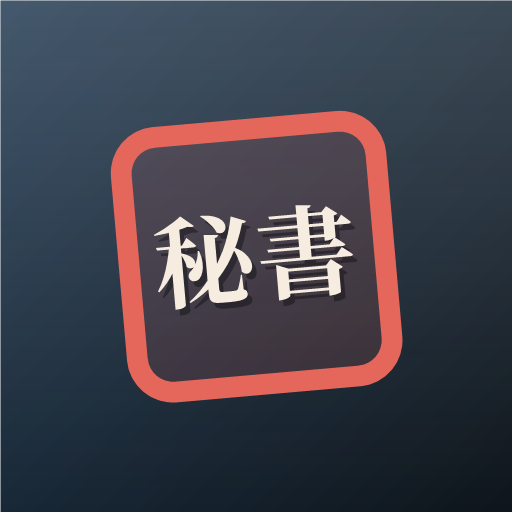
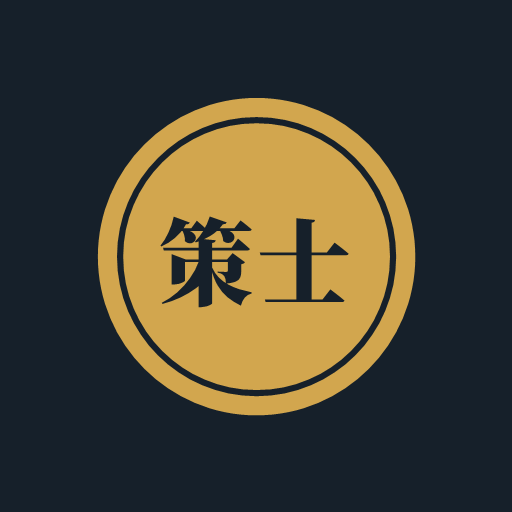
책사 v4.4: 앱 이름을 1급 비서관에서 책사로 바꾸고 아이콘 교체

diff --git a/secretary/index.html b/secretary/index.html
@@ -5,7 +5,7 @@
 <meta name="viewport" content="width=device-width,initial-scale=1,viewport-fit=cover">
 <meta name="theme-color" content="#11171c">
 <meta name="robots" content="noindex,nofollow">
-<title>1급 비서관</title>
+<title>책사</title>
 <link rel="manifest" href="manifest.webmanifest">
 <link rel="icon" href="icon.svg" type="image/svg+xml">
 <link rel="icon" href="icon-192.png" type="image/png" sizes="192x192">
@@ -34,7 +34,7 @@ html,body{height:100%;margin:0;overscroll-behavior-y:none}
 body{background:var(--bg);color:var(--ink);font-family:var(--f-body);font-size:15px;line-height:1.55;padding:env(safe-area-inset-top,0) 12px env(safe-area-inset-bottom,0)}
 .app{height:100%;display:flex;flex-direction:column;gap:8px;padding-block:8px;max-width:1400px;margin:0 auto}
 header{display:flex;align-items:center;gap:10px;flex-wrap:wrap}
-.seal{width:34px;height:34px;border:2px solid var(--seal);color:var(--seal);border-radius:6px;display:grid;place-items:center;font-family:var(--f-display);font-weight:800;font-size:13px;line-height:1;transform:rotate(-4deg)}
+.seal{width:34px;height:34px;border:none;background:#d2a64e;color:#16202a;border-radius:50%;box-shadow:inset 0 0 0 2px #d2a64e,inset 0 0 0 3.5px #16202a;display:grid;place-items:center;font-family:var(--f-display);font-weight:800;font-size:12px;line-height:1}
 h1{font-family:var(--f-display);font-size:19px;margin:0;font-weight:800}
 .status{font-family:var(--f-mono);font-size:12px;color:var(--muted);margin-left:auto;display:flex;gap:7px;align-items:center}
 .dot{width:9px;height:9px;border-radius:50%;background:var(--muted)}
@@ -190,8 +190,8 @@ body.memo .pane-h b span{display:none}
 <body>
 <div class="app">
   <header>
-    <div class="seal" aria-hidden="true">秘書</div>
-    <h1><span class="t">1급 비서관</span> <small style="font-family:var(--f-mono);font-size:11px;color:var(--muted);font-weight:400">v4.3</small></h1>
+    <div class="seal" aria-hidden="true">策士</div>
+    <h1><span class="t">책사</span> <small style="font-family:var(--f-mono);font-size:11px;color:var(--muted);font-weight:400">v4.4</small></h1>
     <div class="status" id="status"><span class="dot"></span><span id="statusText">대기</span></div>
     <button id="pastBtn">지난 대화</button>
     <button id="setBtn" aria-label="설정">설정</button>
@@ -917,7 +917,7 @@ document.addEventListener("visibilitychange",()=>{if(document.visibilityState===
 document.addEventListener("keydown",e=>{ if(!S.live||(e.target&&e.target.matches&&e.target.matches("input,textarea,select"))) return;
   if(e.key==="F9"){e.preventDefault();advise()} else if(e.key==="F8"){e.preventDefault();setMemo(!S.memo)} });
 /* v4.1 메모 화면 */
-function setMemo(on){ S.memo=!!on; document.body.classList.toggle("memo",S.memo); document.title=S.memo?"상담 기록":"1급 비서관"; const b=$("#memoBtn"); if(b) b.textContent=S.memo?"자세히":"메모 화면"; $("#memoDot").hidden=true; if(!S.memo){renderNotes();renderBrief()} }
+function setMemo(on){ S.memo=!!on; document.body.classList.toggle("memo",S.memo); document.title=S.memo?"상담 기록":"책사"; const b=$("#memoBtn"); if(b) b.textContent=S.memo?"자세히":"메모 화면"; $("#memoDot").hidden=true; if(!S.memo){renderNotes();renderBrief()} }
 $("#memoBtn").addEventListener("click",()=>setMemo(!S.memo));
 document.querySelector("header h1").addEventListener("dblclick",()=>{ if(S.live) setMemo(!S.memo) });
 

diff --git a/secretary/sw.js b/secretary/sw.js
@@ -1,4 +1,4 @@
-const C="fs-v21";
+const C="fs-v22";
 self.addEventListener("install",e=>{self.skipWaiting();e.waitUntil(caches.open(C).then(c=>c.addAll(["./","index.html","icon.svg","icon-192.png","icon-512.png","manifest.webmanifest"])))});
 self.addEventListener("activate",e=>e.waitUntil(self.clients.claim()));
 self.addEventListener("fetch",e=>{const u=new URL(e.request.url);if(e.request.method!=="GET"||u.origin!==location.origin)return;
